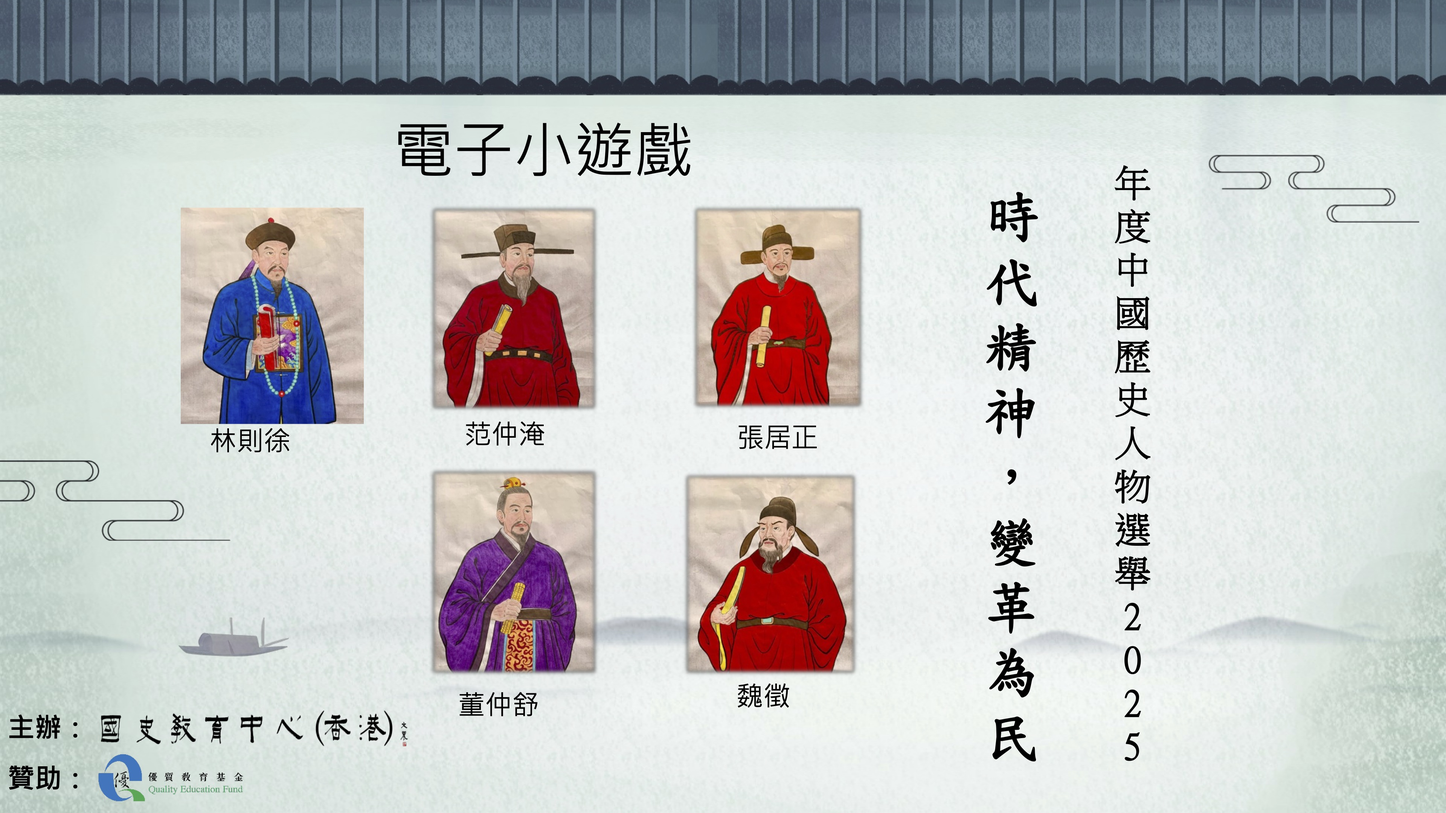
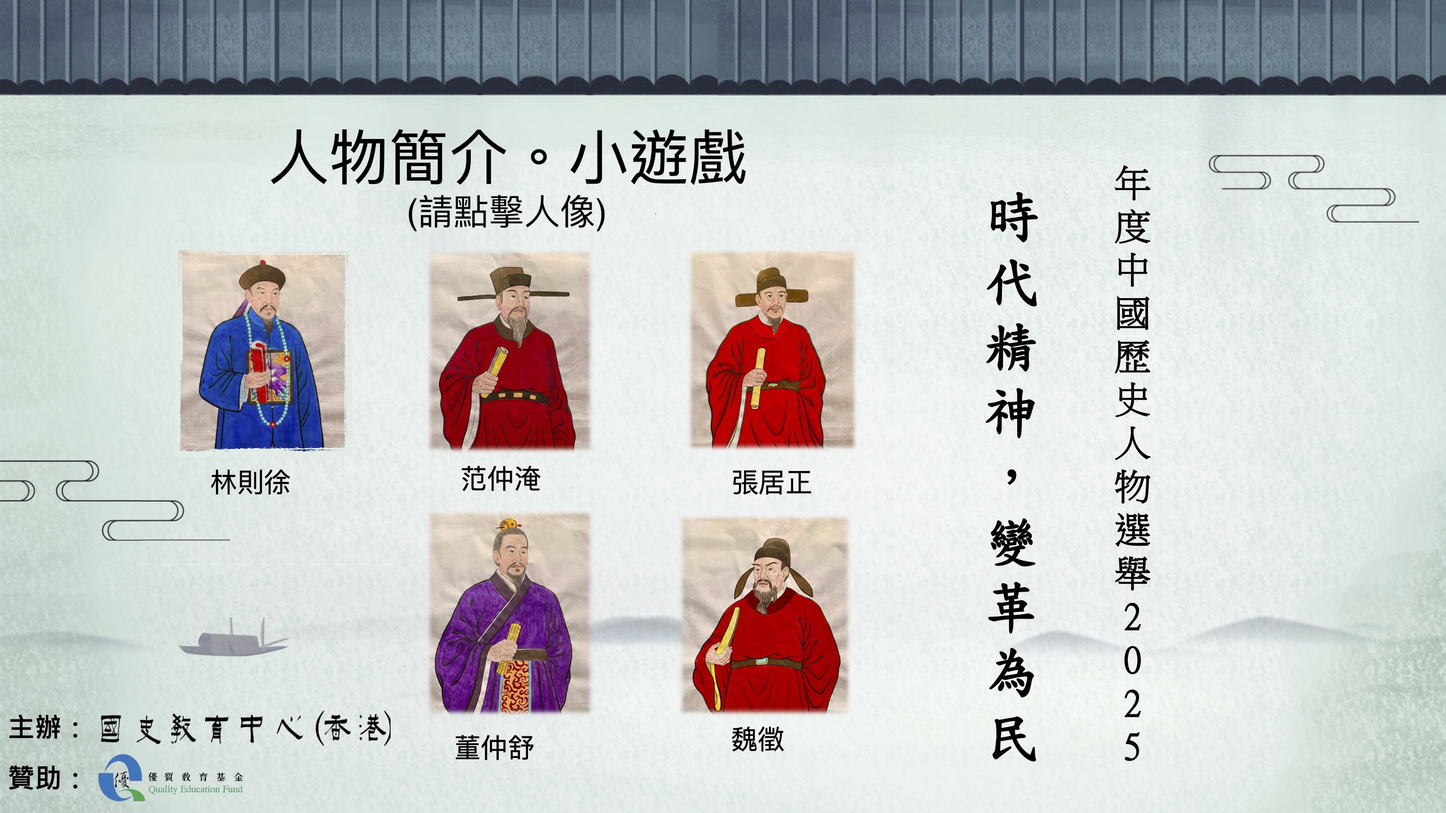
update pdf

Changed region(s): [[0.125, 0.1551, 0.5938, 0.9306]]

diff --git a/select.html b/select.html
@@ -71,7 +71,7 @@
       display: grid;
       height: 57%;
       width: 47%;
-      margin: 14.5% 12.5%;
+      margin: 17.5% 12%;
       grid-template-columns: 1fr 1fr 1fr;
       grid-template-rows: 1fr 1fr;
       gap: 10%;
